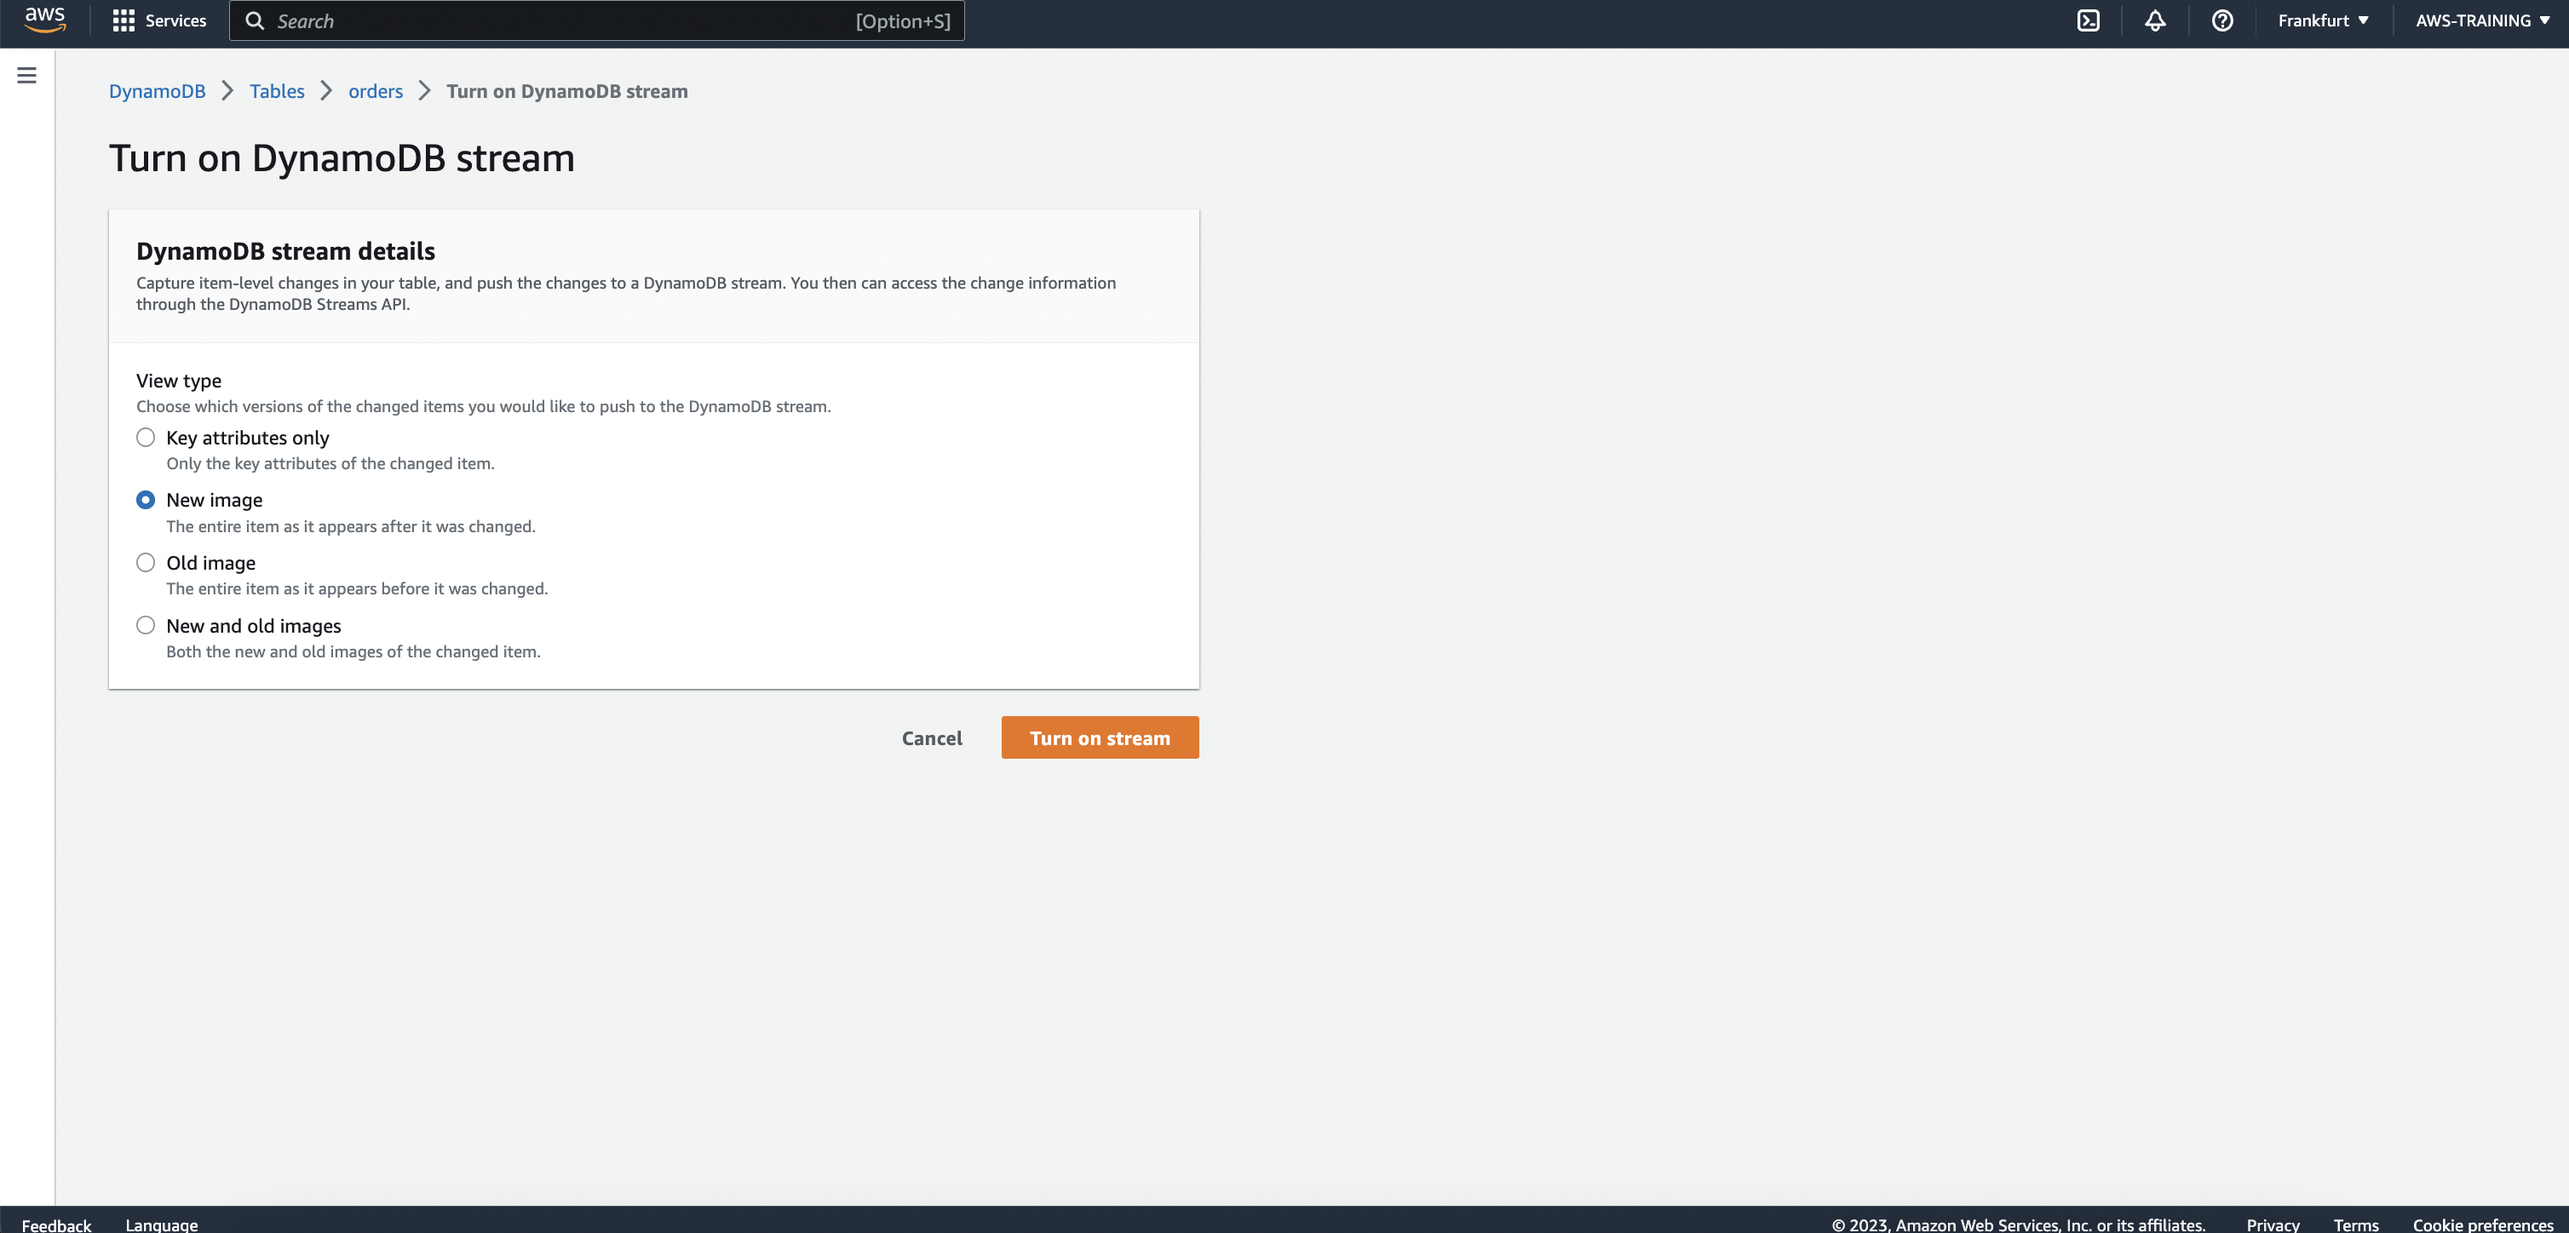
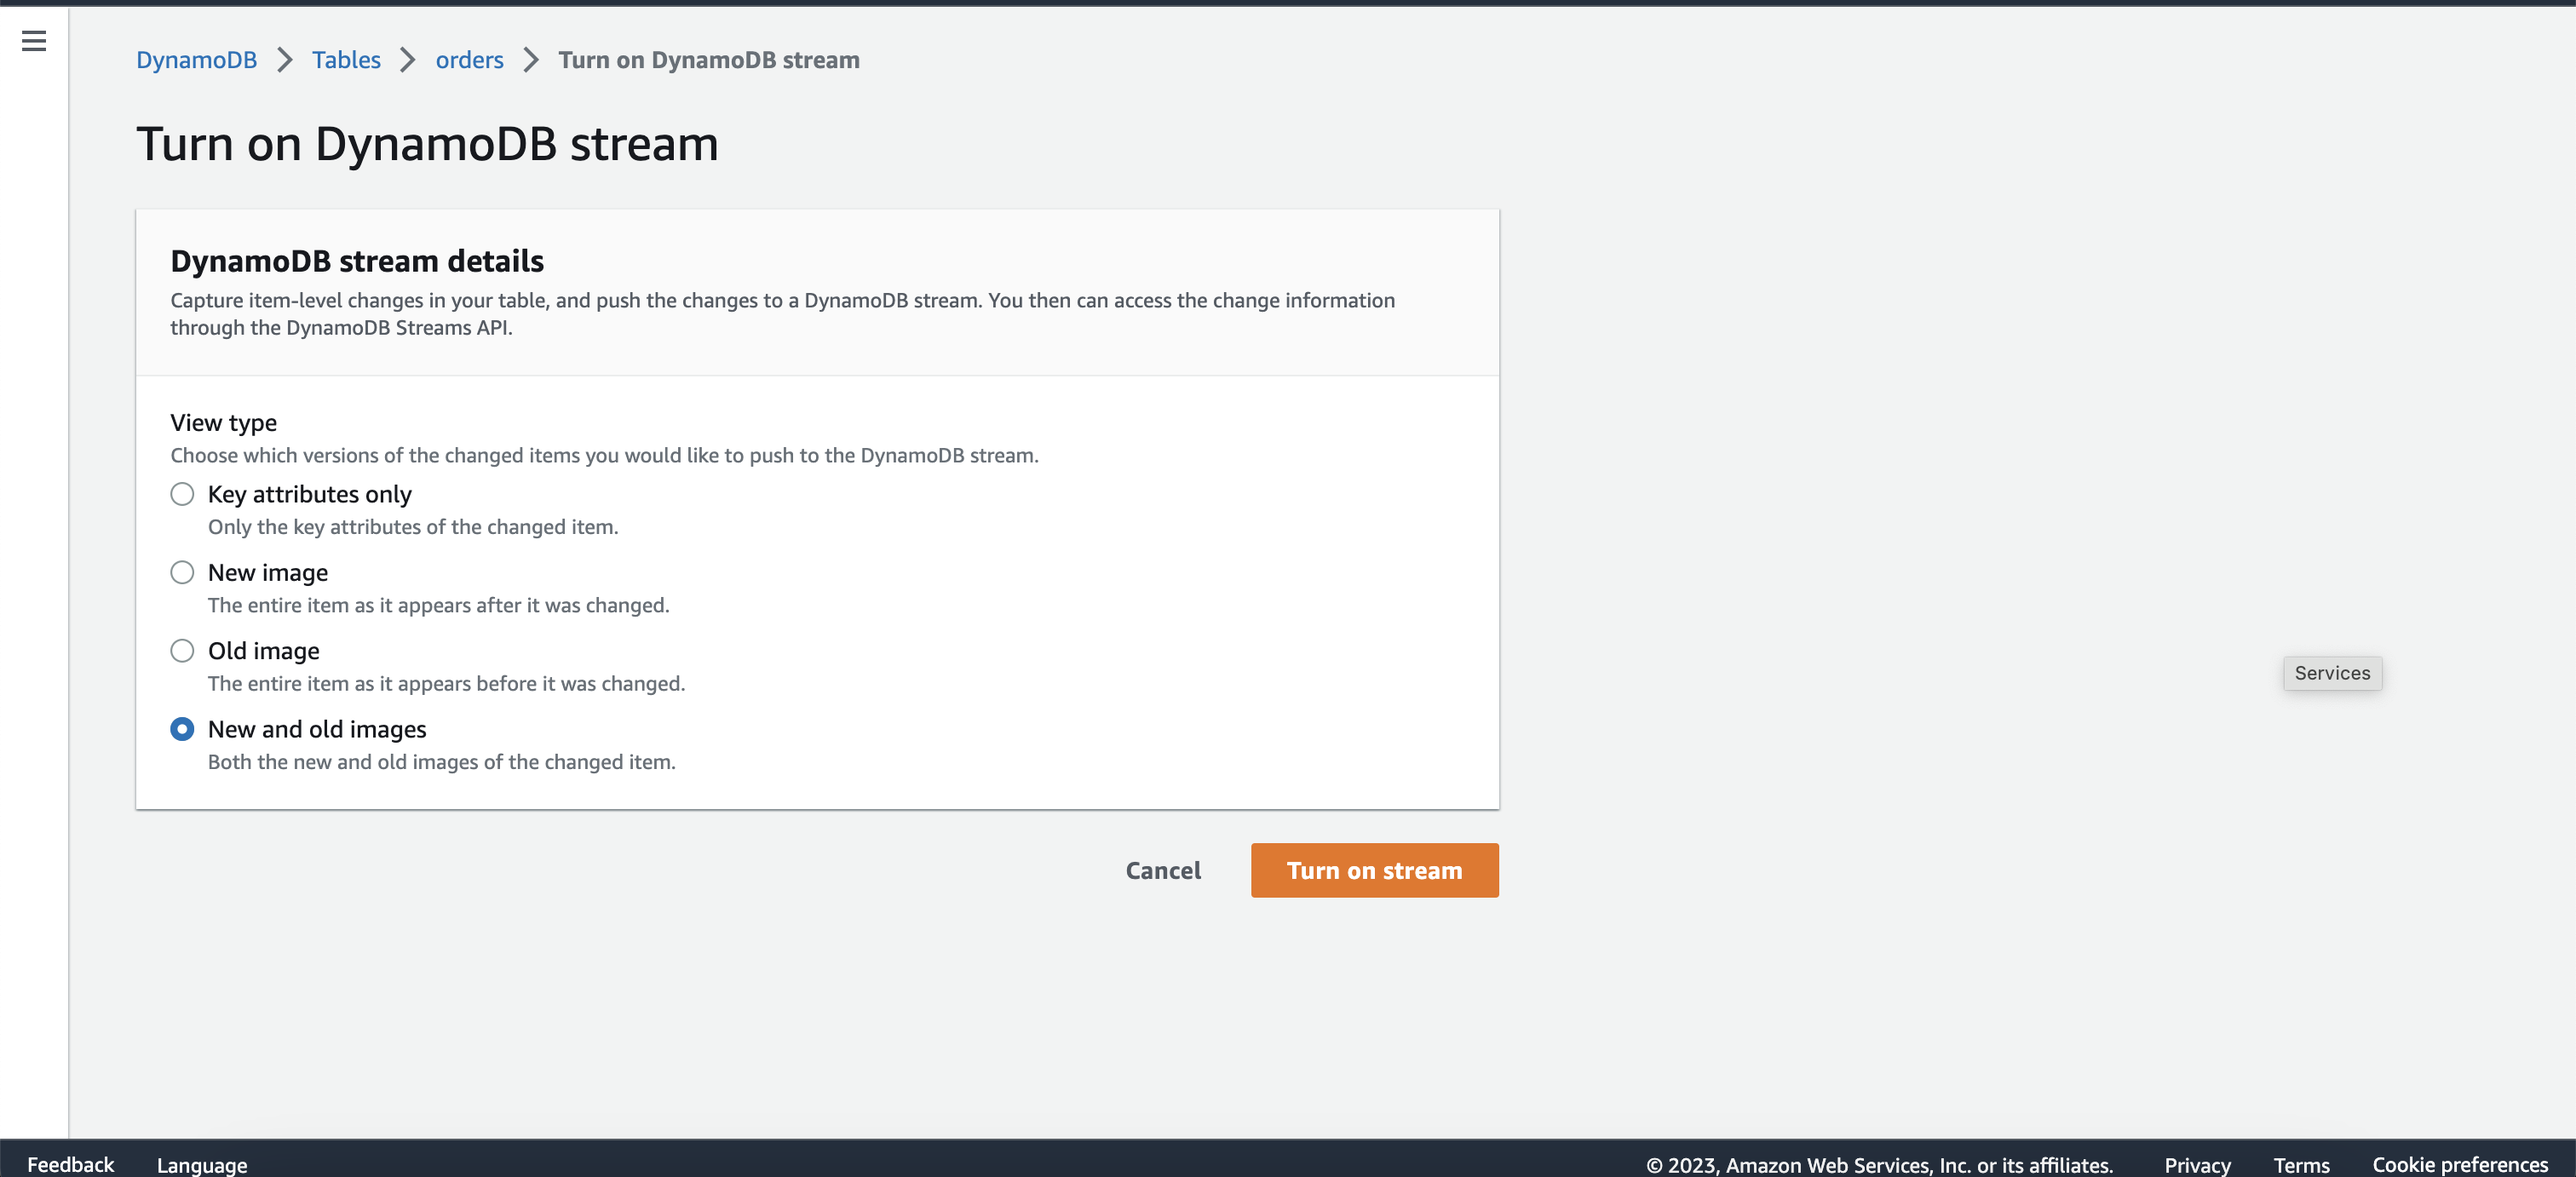
Add event bridge simple configuration and prepare for the next steps

diff --git a/messaging-in-the-cloud/resources/code/update-order/index.js b/messaging-in-the-cloud/resources/code/update-order/index.js
@@ -1,0 +1,31 @@
+const AWS = require('aws-sdk');
+AWS.config.update({ region: process.env.REGION });
+
+const dynamoClient = new AWS.DynamoDB.DocumentClient();
+
+const tableName = process.env.ORDER_TABLE
+
+exports.updateOrder = async (event) => {
+  const { body } = event
+  const data = JSON.parse(body)
+
+  let params = {
+    TableName: tableName,
+    Key: {
+        id: data.id,
+        food_name: data.foodName,
+    },
+    ExpressionAttributeValues: {
+        ':status': data.status,
+    },
+    ReturnValues: 'ALL_NEW',
+    UpdateExpression: 'SET orderStatus = :status',
+  }
+
+  console.log('params', params)
+
+  await dynamoClient.update(params).promise()
+  return {
+    statusCode: 200,
+  }
+}

diff --git a/messaging-in-the-cloud/resources/code/create-invoice/index.js b/messaging-in-the-cloud/resources/code/create-invoice/index.js
@@ -1,0 +1,29 @@
+const uuid = require('node-uuid');
+const AWS = require('aws-sdk');
+AWS.config.update({ region: process.env.REGION });
+
+const dynamoClient = new AWS.DynamoDB.DocumentClient({apiVersion: '2012-08-10'});
+
+const tableName = process.env.INVOICE_TABLE
+
+exports.createInvoice = async (event) => {
+  const date = new Date().toISOString()
+  const { detail } = event
+
+  let item = {
+    id: uuid.v4(),
+    order_id: detail.id,
+    created_at: date,
+  }
+
+  let params = {
+    TableName: tableName,
+    Item: item,
+  }
+
+  await dynamoClient.put(params).promise()
+
+  return {
+    statusCode: 200,
+  }
+}

diff --git a/messaging-in-the-cloud/resources/code/react-to-dynamodb/index.js b/messaging-in-the-cloud/resources/code/react-to-dynamodb/index.js
@@ -1,7 +1,7 @@
 const AWS = require("aws-sdk");
 const sns = new AWS.SNS();
 
-exports.sendToSNS = async (event) => {
+exports.reactToDynamo = async (event) => {
     await sns.publish({
         "Message": JSON.stringify(event.Records[0].dynamodb.NewImage),
         "TopicArn": process.env.TOPIC

diff --git a/messaging-in-the-cloud/workshop/content/3-eventbridge/1-push-message/_index.en.md b/messaging-in-the-cloud/workshop/content/3-eventbridge/1-push-message/_index.en.md
@@ -1,0 +1,74 @@
++++
+title = "Push message"
+weight = 2
++++
+
+Now that we have our event bus and rules, we need to trigger it when DynamoDB changes.
+As you know, we already have our DynamoDB trigger which only push notifications to the SNS, let's open `react-to-dynamodb/index.js` and edit that code to the following:
+
+```
+const AWS = require("aws-sdk");
+AWS.config.update({ region: process.env.REGION });
+const sns = new AWS.SNS();
+const ebClient = new AWS.EventBridge({ apiVersion: '2015-10-07' });
+
+exports.reactToDynamo = async (event) => {
+    const newImage = event.Records[0].dynamodb.NewImage;
+    const oldImage = event.Records[0].dynamodb.OldImage;
+
+    // When it's created send to SNS
+    if (!oldImage && newImage.orderStatus.S === 'PENDING') {
+        await sns.publish({
+            "Message": JSON.stringify(newImage),
+            "TopicArn": process.env.TOPIC
+        }).promise();
+    }
+
+    // When it's changed to PAID send to EventBridge
+    if (oldImage && oldImage.orderStatus.S !== 'PAID' && newImage.orderStatus.S === 'PAID') {
+        await ebClient.putEvents({
+          Entries: [
+            {
+                Detail: JSON.stringify({
+                  id: newImage.id.S,
+                  status: 'PAID'
+                }),
+                EventBusName: "Order.Updated",
+                DetailType: "Order changed",
+                Source: 'dynamo.changes',
+                Time: new Date()
+            },
+          ],
+        }).promise();
+    }
+};
+```
+
+Because now our lambda does more work, we also need to add permission for this lambda. Open `template.yaml` and find `ReactToDynamo` section which is our Lambda. Under `Policies` > `Statement` add new policy to allow this lambda to push events to the EventBridge.
+
+```
+- Effect: Allow
+  Action:
+    - events:PutEvents
+  Resource:
+    - "*"
+```
+
+As you replace this code in the existing function you need to build and deploy again
+
+```
+sam build --template template.yaml
+sam deploy --stack-name orders
+```
+
+And now to test our connection, we can call our endpoint to update order to PAID status which will update it in Dynamo. Go to the DynamDB first and grab order id.
+
+![Taking order id from the DynamoDB table](/images/eventBridge/order-id.png)
+
+Run the following command but pass id that you grapped above:
+
+```
+curl -s --header "Content-Type: application/json"   --request PUT   --data '{"id": "YOUR_PRIMARY_KEY", "foodName": "Pizza", "status": "PAID" }' $API_ENDPOINT
+```
+
+In the end you should see new `invoice` created in the `invoice` table with the order_id filled.

diff --git a/messaging-in-the-cloud/workshop/content/3-eventbridge/0-setup/_index.en.md b/messaging-in-the-cloud/workshop/content/3-eventbridge/0-setup/_index.en.md
@@ -1,0 +1,47 @@
++++
+title = "Setup"
+weight = 1
++++
+
+In this part of the module we will introduce approval phase, invoicing and schedules for our order processing system. We are are going to add rules based on DynamoDB changes to trigger other flows.
+  - When our order gets into `pending` status we will trigger flow to ask for approval
+  - When order gets `cancelled` we will notify the customer
+  - When order gets to `paid` status we will create invoice
+
+![Setup event bridge](/images/eventBridge/setup.png)
+
+First let's create separate Event Bus for these messages. Open `EventBridge` in the console > go to `Event Bus` and click on `Create event bus`, name it `Order.Updated` it will take care of our order updates.
+
+![Setup event bridge](/images/eventBridge/create-event-bus.png)
+
+Once we have event bus, we can start defining rules, open the rules and go to `Create rule`. At this step we will enter only the rule name, set it to the `Order.Updated.Pending` and select Event Bus `Order.Updated` and go to next where we will setup more stuff about our event.
+
+![Setup event bridge](/images/eventBridge/create-rule-name.png)
+
+Choose type of the event, here we will be pushing our own event to the system. So let's go and choose `Other` in the first option.
+
+![Setup event bridge](/images/eventBridge/create-rule-type.png)
+
+Go to section `Creation method` and choose `Custom pattern`, and in the field below for the JSON enter the following JSON
+
+```
+{
+  "detail": {
+    "status": [ { "prefix": "PAID" } ]
+  }
+}
+```
+
+This JSON will search for status which starts with `PAID` status.
+
+Before you proceed it's important to enable `Content-based filter syntax` which will allow us to search in the content of the message.
+
+![Status](/images/eventBridge/create-rule-pattern.png)
+
+On the next step we will have to connect to the Lambda which can create invoice.
+Choose `AWS Service` for the target type, and select a target `Lambda`.
+Now you are able to select, select the `Create Invoice` lambda for target.
+
+![EventBridge configuration for lambda ARN](/images/eventBridge/create-rule-arn.png)
+
+Go to `Skip to Review and create`, we won't setup any tags. They you need to click `Create rule` which will setup our rule for us.

diff --git a/messaging-in-the-cloud/workshop/content/2-notifications/1-react-on-changes/_index.en.md b/messaging-in-the-cloud/workshop/content/2-notifications/1-react-on-changes/_index.en.md
@@ -7,11 +7,11 @@ Now that we have SNS topic configured, we need to connect it with DynamoDB. Go t
 
 ![Choose name](/images/sns/react-on-changes/dynamodb-stream.png)
 
-We will enable stream only for the new records, when record is inserted we will stream only that, updates won't be sent. Based on that we should choose `New image` when we are creating DynamoDB Stream.
+We will enable stream for both new and old images. So choose last option `New and old images`
 
 ![Choose name](/images/sns/react-on-changes/dynamodb-stream-creation.png)
 
-Once it's created we need to configure trigger for our DB Stream. Our trigger will be Lambda function which was bootstrapped initially, it's called `send-to-sns`.
+Once it's created we need to configure trigger for our DB Stream. Our trigger will be Lambda function which was bootstrapped initially, it's called `reactToDynamo`.
 
 ![Choose name](/images/sns/react-on-changes/dynamodb-stream-trigger.png)
 
@@ -19,7 +19,7 @@ Our Lambda requires to recieve `TOPIC` as environment variable, and that variabl
 
 ![SNS ARN](/images/sns/react-on-changes/sns-arn.png)
 
-Now we need to add this environment variable to `send-to-sns` lambda. Go to Lambda console and open `send-to-sns` lambda > Configuration > Environment variables
+Now we need to add this environment variable to `reactToDynamo` lambda. Go to Lambda console and open `reactToDynamo` lambda > Configuration > Environment variables
 
 ![SNS ARN](/images/sns/react-on-changes/send-to-sns-env.png)
 

diff --git a/messaging-in-the-cloud/workshop/content/3-eventbridge/1-recurring-tasks/_index.en.md b/messaging-in-the-cloud/workshop/content/3-eventbridge/1-recurring-tasks/_index.en.md
@@ -1,0 +1,6 @@
++++
+title = "Recurring tasks"
+weight = 3
++++
+
+EventBridge allow us to create recurring or one time tasks, it would take care of scheduling and sending message to the lambda. Use case for this can be various, and 

diff --git a/messaging-in-the-cloud/workshop/content/2-notifications/_index.en.md b/messaging-in-the-cloud/workshop/content/2-notifications/_index.en.md
@@ -1,4 +1,4 @@
 +++
-title = "Notifications"
+title = "SNS - Notifications"
 weight = 3
 +++

diff --git a/messaging-in-the-cloud/workshop/content/1-queuing/_index.en.md b/messaging-in-the-cloud/workshop/content/1-queuing/_index.en.md
@@ -1,4 +1,4 @@
 +++
-title = "Queuing"
+title = "SQS - Queuing"
 weight = 2
 +++

diff --git a/messaging-in-the-cloud/workshop/content/3-eventbridge/_index.en.md b/messaging-in-the-cloud/workshop/content/3-eventbridge/_index.en.md
@@ -1,0 +1,4 @@
++++
+title = "EventBridge"
+weight = 4
++++
